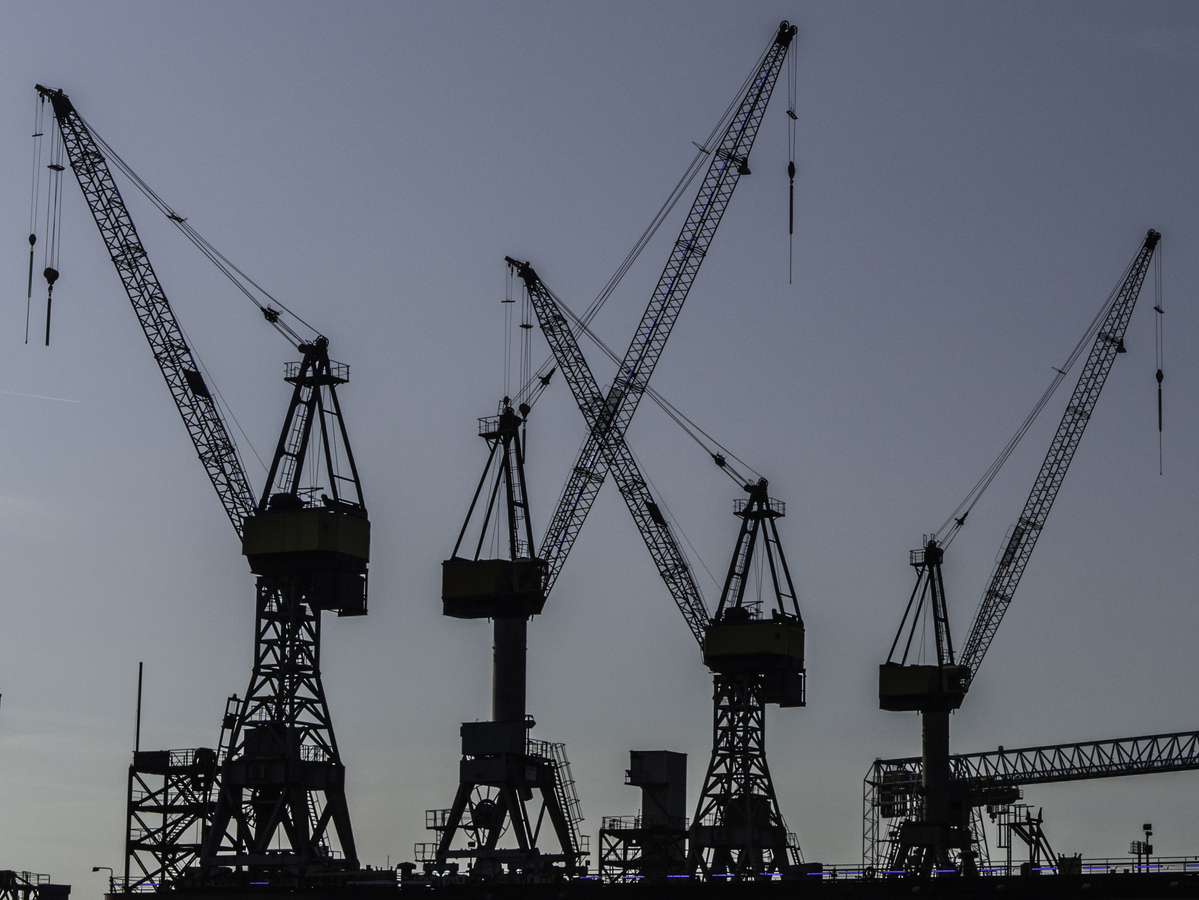
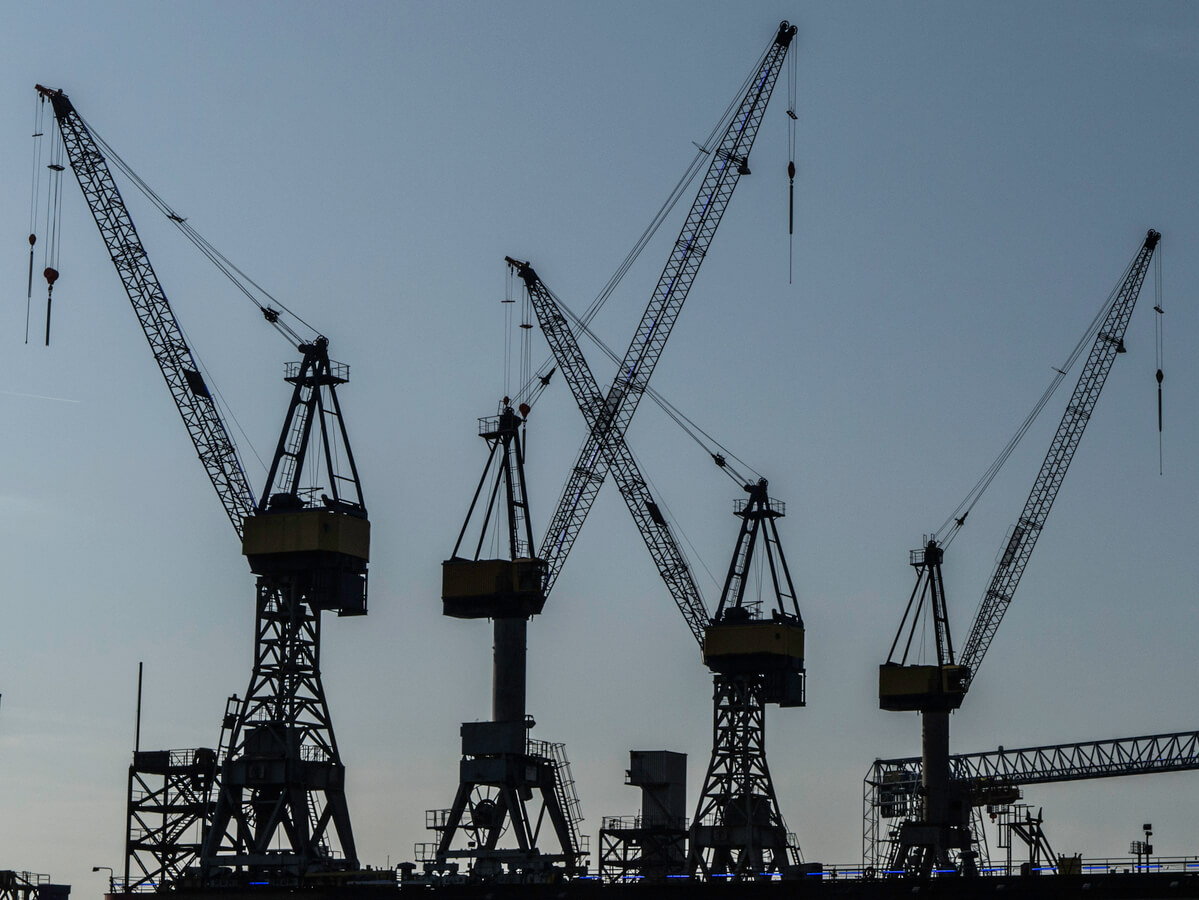
compressed images

diff --git a/_includes/main.html b/_includes/main.html
@@ -209,7 +209,7 @@
 	  </div>
 	</section>
 		
-    <section class="img ftco-section" id="services-section" style="background-image: url(/img/container-port.jpg);">
+    <section class="img ftco-section" id="services-section" style="background-image: url(/img/container-port.jpeg);">
     	<div class="container">
 			<div class="row no-gutters">
 				<div id="service-title" class="ftco-animate mt-md-3 col-md-6 col-xl-4" style="top: 150px;">
@@ -396,7 +396,7 @@
     	<div class="container">
     		<div class="row d-flex">
     			<div class="col-md-6 col-lg-5 d-flex">
-    				<div class="img d-flex align-self-stretch align-items-center" style="background-image:url(/img/bridge-metal.jpg);">
+    				<div class="img d-flex align-self-stretch align-items-center" style="background-image:url(/img/bridge-metal.jpeg);">
     				</div>
     			</div>
     			<div class="col-md-6 col-lg-7 pl-lg-5 py-5">
